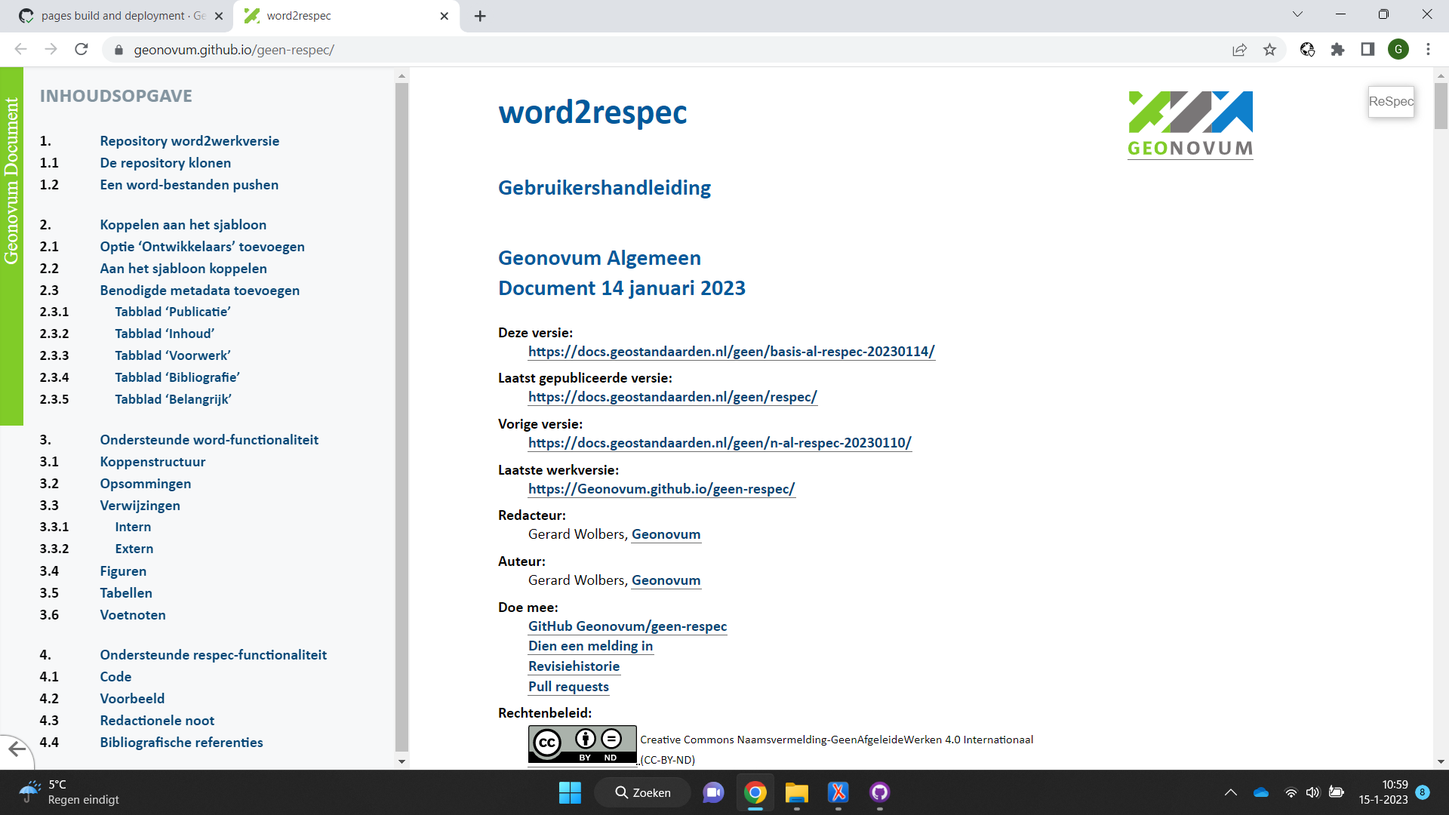
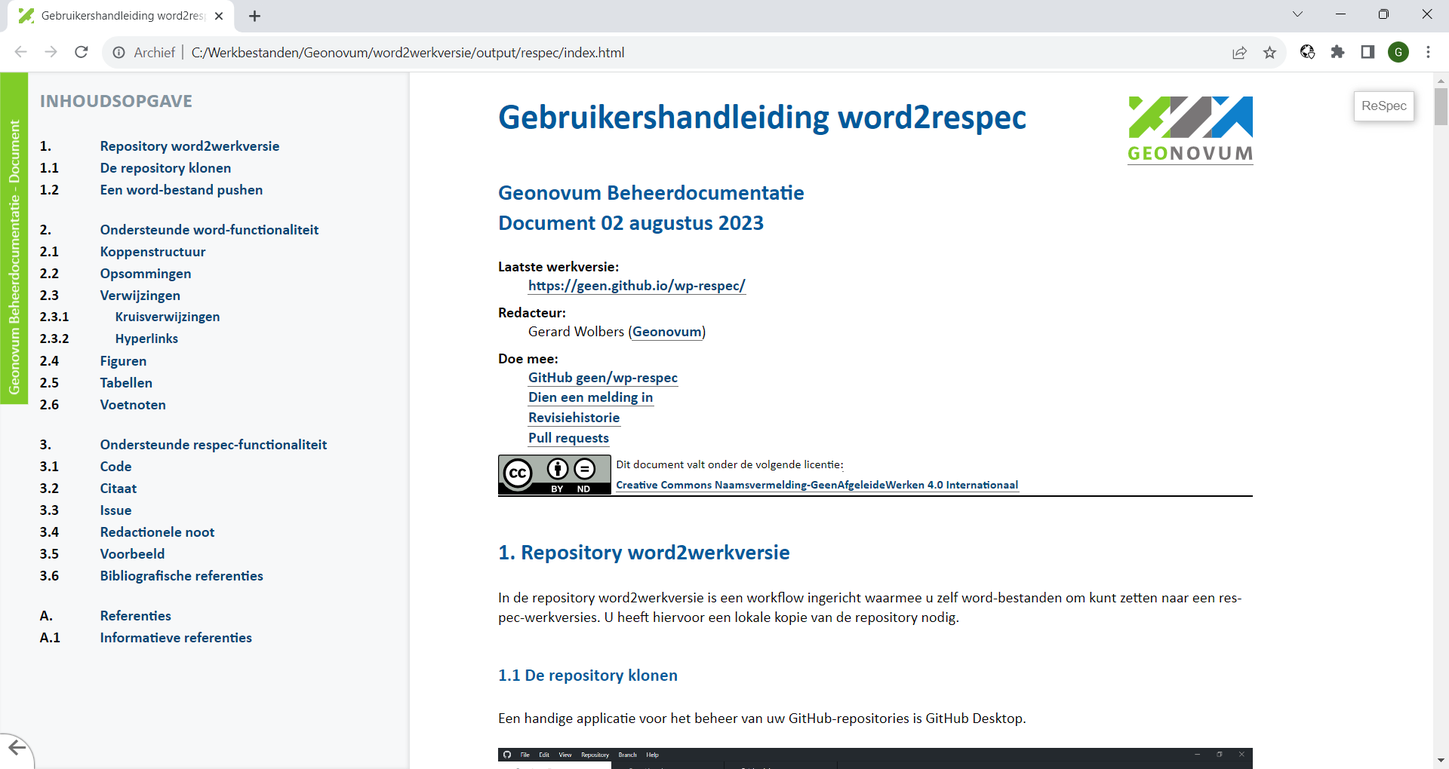
Gebruikershandleiding word2respec 1.1.0

Changed region(s): [[0.0, 0.0, 1.0, 1.0], [0.7812, 0.0304, 1.0, 0.2127], [0.3438, 0.1216, 0.7188, 0.1824]]

diff --git a/index.html b/index.html
@@ -1,1 +1,12 @@
-<?xml version="1.0" encoding="UTF-8"?><!DOCTYPE html><html lang="nl"><head><meta content="text/html; charset=UTF-8" http-equiv="content-type"></meta><meta name="viewport" content="width=device-width, initial-scale=1, shrink-to-fit=no"></meta><script class="remove notoc" src="https://cdn.jsdelivr.net/gh/digitalbazaar/respec-mermaid@1.0.1/dist/main.js"></script><script class="remove notoc" src="js/organisation-config.js"></script><script class="remove notoc" src="js/document-config.js"></script><script class="remove notoc">respecConfig = {...organisationConfig, ...documentConfig}</script><script class="remove notoc" src="https://gitdocumentatie.logius.nl/publicatie/respec/builds/respec-nlgov.js"></script><link rel="shortcut icon" type="image/x-icon" href="https://tools.geostandaarden.nl/publication/domain/geen/Geonovum.ico"></link><link rel="stylesheet" type="text/css" href="https://tools.geostandaarden.nl/publication/domain/geen/style.css"></link><title>Gebruikershandleiding word2respec</title></head><body><section id="abstract" class="introductory remove notoc"></section><section id="sotd" class="introductory remove notoc"></section><section id="6AE956A5" class="chapter"><h1 id="x1-6AE956A5">Repository word2werkversie</h1><p>In de repository word2werkversie is een workflow ingericht waarmee u zelf word-bestanden om kunt zetten naar een respec-werkversies. U heeft hiervoor een lokale kopie van de repository nodig.</p><section id="0209AAC7" class="body"><h2 id="x1-1-0209AAC7">De repository klonen</h2><p>Een handige applicatie voor het beheer van uw GitHub-repositories is GitHub Desktop.</p><figure><img src="media/image1.png" alt="media/image1.png" style="width: 100%;"></img><figcaption>Toevoegen van een repository</figcaption></figure><figure><img src="media/image2.png" alt="media/image2.png" style="width: 100%;"></img><figcaption>Zoek repository word2werkversie</figcaption></figure><p>Hiermee worden alle benodigde bestanden lokaal opgeslagen. De map word2werkversie/input bevat het sjabloon respec.dotm en het te converteren word-bestand. Er mag maar één docx-bestand in de map staan. Houd er rekening mee dat meer gebruikers de repository gebruiken. Uw word-bestand wordt dan verwijderd.</p></section><section id="6417117B" class="body"><h2 id="x1-2-6417117B">Een word-bestand pushen</h2><p>De repository word2werkversie bevat een action dat het gepushte word-bestand omzet naar respec-bestanden en deze plaatst in een GitHub-repository.</p><figure><img src="media/image3.png" alt="media/image3.png" style="width: 100%;"></img><figcaption>Commit het word-bestand</figcaption></figure><figure><img src="media/image4.png" alt="media/image4.png" style="width: 100%;"></img><figcaption>Push het word-bestand</figcaption></figure><p>Na de push start op de GitHub-repository een action dat de transformatie uitvoert.</p><figure><img src="media/image5.png" alt="media/image5.png" style="width: 100%;"></img><figcaption>Overzicht van uitgevoerde transformaties</figcaption></figure><figure><img src="media/image6.png" alt="media/image6.png" style="width: 100%;"></img><figcaption>De nieuwe repository</figcaption></figure><figure><img src="media/image7.png" alt="media/image7.png" style="width: 100%;"></img><figcaption>De pages-variant</figcaption></figure></section></section><section id="2E63D1F3" class="chapter"><h1 id="x3-2E63D1F3">Ondersteunde word-functionaliteit</h1><section id="2E987008" class="body"><h2 id="x3-1-2E987008"><span id="_Ref124671954"></span>Koppenstructuur</h2><p>Alle transformaties in de word2respec-workflow zijn gebaseerd op het gebruik van de stijlen ‘Kop 1’ t/m ‘Kop 9’. Overigens biedt dit veel extra mogelijkheden binnen word. Het venster ‘Stijlen’ opent (en sluit) u met toetscombinatie Alt+Ctrl-Shift+S.</p><figure><img src="media/image16.png" alt="media/image16.png" style="width: 100%;"></img><figcaption>Navigatie op basis van de koppenstructuur</figcaption></figure></section><section id="10DDDABF" class="body"><h2 id="x3-2-10DDDABF">Opsommingen</h2><p>Er zijn twee typen opsommingen, genummerd en met tekens. Hiervoor dient u de word-functie ‘Opsommingen’ te gebruiken. De opsommingen mogen gedefinieerd zijn in de stijl. De opsomming wordt omgezet naar opsommingen zoals ze voor het specifieke domein zijn gedefinieerd in het css-bestand. Dus het is mogelijk dat een opsomming met kapitale letters wordt omgezet naar Romeinse cijfers.</p></section><section id="15D453C9" class="body"><h2 id="x3-3-15D453C9">Verwijzingen</h2><p>Omdat de koppenstructuur, figuurnummers en tabelnummers worden gegenereerd door respec, is het niet verstandig om verwijzingen als tekst op te nemen. Dit kan op twee manieren:</p><ul><li><p>met kruisverwijzingen,</p></li><li><p>met interne verwijzingen.</p></li></ul><section id="44411ED5" class="body"><h3 id="x3-3-1-44411ED5"><span id="_Ref124680588"></span>Kruisverwijzingen</h3><p>Hiervoor gebruikt u de word-functie ‘Kruisverwijzing’ (Alt+Ctrl+Shift+K). Hiermee kunt u verwijzen naar alle mogelijke genummerde alinea’s.</p><figure><img src="media/image17.png" alt="media/image17.png" style="width: 59.99955555884772%;"></img><figcaption>Scherm ‘Kruisverwijzing’</figcaption></figure><figure><img src="media/image18.png" alt="media/image18.png" style="width: 100%;"></img><figcaption>Weergave van een kruiskoppeling in respec</figcaption></figure></section><section id="0A825EF3" class="body"><h3 id="x3-3-2-0A825EF3">Hyperlinks</h3><p>Ook hyperlinks worden doorgegeven in de respec-weergave. Met scherm ‘Hyperlink invoegen’ (Ctrl+K) voegt u een hyperlink toe, bijvoorbeeld naar hoofdstuk Repository word2werkversie.</p><figure><img src="media/image19.png" alt="media/image19.png" style="width: 100%;"></img><figcaption>Scherm voor het invoegen en bewerken van hyperlinks</figcaption></figure><figure><img src="media/image20.png" alt="media/image20.png" style="width: 100%;"></img><figcaption>Weergave van een hyperlink in respec</figcaption></figure></section></section><section id="27284A38" class="body"><h2 id="x3-4-27284A38">Figuren</h2><p class="space-after">Het veiligst is om figuren met tekstomloop ‘In tekstregel’ te gebruiken. De transformatie moet namelijk weten waar in de tekst een figuur ‘verankerd’ is. Dit is in word de standaard-mogelijkheid voor het plaatsen van figuren. De omvang van een figuur wordt berekend aan de hand van de breedte. De verhouding tussen de figuurbreedte en tekstbreedte wordt gebruikt in de uiteindelijke respec-weergave. Als de figuurbreedte meer dan 90% van de tekstbreedte is, wordt het uitgevuld naar de volledige tekstbreedte.</p><p>Het is mogelijk om met kruisverwijzingen (zie<a href="#_Ref124680588">3.3.1</a>) te verwijzen naar een figuur. De alinea onder de figuur wordt omgezet naar een figuurbijschrift als u het markeert met stijl ‘Figuurbijschrift’ of ‘Bijschrift’.</p></section><section id="4FB3FFF7" class="body"><h2 id="x3-5-4FB3FFF7">Tabellen</h2><p>Tabellen worden volledig door de workflow word2respec ondersteund:</p><ul><li><p>Tabelstijlen en tabeleigenschappen worden ondersteund.</p></li><li><p>De celopmaak wordt overgenomen.</p></li><li><p>Kolombreedte wordt overgenomen.</p></li><li><p class="space-after">Samengevoegde cellen verticaal en horizontaal worden ondersteund.</p></li></ul><p>Als u de alinea boven de tabel markeert met stijl ‘Tabeltitel’ of ‘Bijschrift’, dan wordt de alinea verwerkt als tabeltitel. In de tekst kunt u verwijzen naar de tabeltitel (zie<a href="#_Ref124680588">3.3.1</a>). Merk op dat respec in de weergave de tabeltitel niet weergeeft met een nummering. Onderstaand is een voorbeeldtekst.</p><table style="width: 100%;"><caption>Vergelijking met huidige rechtsfiguren en RO Standaarden</caption><colgroup><col id="col1" style="width: 35.00117730162467%;"></col><col id="col2" style="width: 64.99882269837532%;"></col></colgroup><thead valign="top"><tr><th align="left" style="border-top: 0.5pt solid #000000; border-left: 0.5pt solid #000000; border-bottom: 0.5pt solid #000000; border-right: 0.5pt solid #000000; background-color: #000000;"><p><b><span style="color: #FFFFFF;">Onderwerp</span></b></p></th><th align="left" style="border-top: 0.5pt solid #000000; border-left: 0.5pt solid #000000; border-bottom: 0.5pt solid #000000; border-right: 0.5pt solid #000000; background-color: #000000;"><p><b><span style="color: #FFFFFF;">Specificatie</span></b></p></th></tr></thead><tbody valign="top"><tr><td align="left" style="border-top: 0.5pt solid #000000; border-left: 0.5pt solid #000000; border-bottom: 0.5pt solid #000000; border-right: 0.5pt solid #000000; background-color: #FFFFFF;"><p><span style="color: #000000;">Vergelijkbaar met / voortzetting van huidige rechtsfiguur</span></p></td><td align="left" style="border-top: 0.5pt solid #000000; border-left: 0.5pt solid #000000; border-bottom: 0.5pt solid #000000; border-right: 0.5pt solid #000000; background-color: #FFFFFF;"><ul><li><p><span style="color: #000000;">bestemmingsplan, uitwerkingsplan, wijzigingsplan en inpassingsplan op basis van Wro</span></p></li><li><p><span style="color: #000000;">beheersverordening op basis van Wro</span></p></li><li><p><span style="color: #000000;">bestemmingsplan met verbrede reikwijdte op basis van Crisis- en herstelwet</span></p></li><li><p><span style="color: #000000;">welstandsnota op basis van Woningwet</span></p></li><li><p><span style="color: #000000;">erfgoedverordening op basis van Monumentenwet</span></p></li><li><p><span style="color: #000000;">algemene plaatselijke verordening op basis van Gemeentewet</span></p></li><li><p><span style="color: #000000;">…</span></p></li></ul></td></tr><tr><td align="left" style="border-top: 0.5pt solid #000000; border-left: 0.5pt solid #000000; border-bottom: 0.5pt solid #000000; border-right: 0.5pt solid #000000; background-color: #FFFFFF;"><p><span style="color: #000000;">Voortzetting van instrument in RO Standaarden</span></p></td><td align="left" style="border-top: 0.5pt solid #000000; border-left: 0.5pt solid #000000; border-bottom: 0.5pt solid #000000; border-right: 0.5pt solid #000000; background-color: #FFFFFF;"><p><span style="color: #000000;">Ja, bestemmingsplan en beheersverordening</span></p></td></tr><tr><td align="left" style="border-top: 0.5pt solid #000000; border-left: 0.5pt solid #000000; border-bottom: 0.5pt solid #000000; border-right: 0.5pt solid #000000; background-color: #FFFFFF;"><p><span style="color: #000000;">INSPIRE-thema</span></p></td><td align="left" style="border-top: 0.5pt solid #000000; border-left: 0.5pt solid #000000; border-bottom: 0.5pt solid #000000; border-right: 0.5pt solid #000000; background-color: #FFFFFF;"><p><span style="color: #000000;">Planned Land Use: SpatialPlan</span></p></td></tr></tbody></table></section><section id="476F745B" class="body"><h2 id="x3-6-476F745B">Voetnoten</h2><p class="space-after">De transformatie ondersteunt niet-complexe voetnoten. Onderstaand is een voorbeeldtekst.</p><p style="margin-left: 10.0mm;">Op grond van artikel 20.26 lid 2 Omgevingswet worden besluiten en andere rechtsfiguren op grond van die wet die bij ministeriële regeling zijn aangeduid als omgevingsdocument, ontsloten via DSO-LV. De bedoelde ministeriële regeling is de Regeling standaarden publicaties Omgevingswet<span class="noot">[1]<span class="noottekst"> De Regeling standaarden publicaties Omgevingswet is een ministeriële regeling bij de Bekendmakingswet<br/></span></span>. Deze regeling wijst besluiten en andere rechtsfiguren aan als omgevingsdocument en stelt het verplicht om die omgevingsdocumenten, en ontwerpen daarvan, elektronisch vorm te geven conform de Standaard voor Officiële Publicaties, het InformatieModel Omgevingswet en het voor het betreffende omgevingsdocument voorgeschreven toepassingsprofiel. Ook bevat deze regeling de verplichting om omgevingsdocumenten voor publicatie aan te bieden aan het Bronhouderkoppelvlak van de LVBB.</p><figure><img src="media/image21.png" alt="media/image21.png" style="width: 100%;"></img><figcaption>Respec-weergave van een voetnoot</figcaption></figure></section></section><section id="15D08FC1" class="chapter"><h1 id="x4-15D08FC1">Ondersteunde respec-functionaliteit</h1><p>In respec-weergave komen tekstsoorten voor waarvoor we een specifieke word-opmaak hebben afgesproken. U kunt deze toevoegen met de opties ‘Tekstsoorten’ en ‘Code’, links in de werkbalk.</p><section id="692AB1A3" class="body"><h2 id="x4-1-692AB1A3">Code</h2><p class="space-after">Een code-blok wordt in word aangegeven door het hele blok te markeren met menu-optie ‘Code’. Onderstaand is voorbeeldtekst. Let erop dat de inspringing met een tab-teken moet.</p><p><span style="background-color: cyan;">&lt;xsl:template match="w14:checkbox"&gt;</span></p><p><span style="background-color: cyan;">    &lt;xsl:element name="input"&gt;</span></p><p><span style="background-color: cyan;">        &lt;xsl:attribute name="class" select="string('task-list-item-checkbox')"/&gt;</span></p><p><span style="background-color: cyan;">        &lt;xsl:attribute name="id" select="generate-id(.)"/&gt;</span></p><p><span style="background-color: cyan;">        &lt;xsl:attribute name="style" select="string('margin-right: 2mm;')"/&gt;</span></p><p><span style="background-color: cyan;">        &lt;xsl:attribute name="type" select="string('checkbox')"/&gt;</span></p><p><span style="background-color: cyan;">        &lt;xsl:if test="w14:checked/@w14:val=1"&gt;</span></p><p><span style="background-color: cyan;">            &lt;xsl:attribute name="checked"/&gt;</span></p><p><span style="background-color: cyan;">        &lt;/xsl:if&gt;</span></p><p><span style="background-color: cyan;">    &lt;/xsl:element&gt;</span></p><p class="space-after"><span style="background-color: cyan;">&lt;/xsl:template&gt;</span></p><p>Code kan ook binnen een alinea staan. Dan is het voldoende om <span style="background-color: cyan;">dit gedeelte</span> te markeren met optie ‘Code’.</p><figure><img src="media/image22.png" alt="media/image22.png" style="width: 100%;"></img><figcaption>Voorbeeld van een code-blok in word</figcaption></figure></section><section id="47C7E86B" class="body"><h2 id="x4-2-47C7E86B">Citaat</h2><p>Een citaat wordt aangegeven door de alinea te selecteren en optie ‘Tekstsoorten’, ‘Citaat’ te kiezen.</p><blockquote><p>Dit is een voorbeeld van een citaat.</p></blockquote><figure><img src="media/image23.png" alt="media/image23.png" style="width: 100%;"></img><figcaption>Voorbeeld van de tekstsoorten ‘Citaat’, ‘Issue’ en ‘Noot’ in word</figcaption></figure></section><section id="0E8A6FC9" class="body"><h2 id="x4-3-0E8A6FC9">Issue</h2><p>In respec is het mogelijk om extra functionaliteit voor issues op te nemen. Zet in de eerste alinea het issue waarnaar gekoppeld moet worden en de titel. Selecteer de tekst en markeer het met ‘Teksoorten’, ‘Issue’.</p><p><b>Issue 22</b>: Invullen van <span style="background-color: cyan;">dct:license</span> en <span style="background-color: cyan;">dct:rights</span></p><p><span style="background-color: cyan;">dct:license</span> en <span style="background-color: cyan;">dct:rights</span> zijn te vinden in resource én in dataservice. Wanneer moet je nu welke eigenschap invullen?</p></section><section id="774275FA" class="body"><h2 id="x4-4-774275FA">Redactionele noot</h2><p>Een redactionele noot wordt aangegeven door de alinea te markeren met menu-optie ‘Tekstsoorten’, ‘Noot’. Onderstaand is voorbeeldtekst.</p><p class="space-after">Voor de beschrijving verwijzen we naar de documentatie in de bijlage.</p></section><section id="13F17295" class="body"><h2 id="x4-5-13F17295">Voorbeeld</h2><p>Een voorbeeld wordt aangegeven door de alinea te selecteren en optie ‘tekstsoorten’, ‘Voorbeeld’ te kiezen. Het is mogelijk om een code-blok binnen een voorbeeld aan te geven. Onderstaand is voorbeeldtekst.</p><aside class="example"><p>Op grond van artikel 20.26 lid 2 Omgevingswet worden besluiten en andere rechtsfiguren op grond van die wet die bij ministeriële regeling zijn aangeduid als omgevingsdocument, ontsloten via DSO-LV. De bedoelde ministeriële regeling is de Regeling standaarden publicaties Omgevingswet<sup><span class="noot">[2]<span class="noottekst"> De Regeling standaarden publicaties Omgevingswet is een ministeriële regeling bij de Bekendmakingswet<br/></span></span></sup>. Deze regeling wijst besluiten en andere rechtsfiguren aan als omgevingsdocument en stelt het verplicht om die omgevingsdocumenten, en ontwerpen daarvan, elektronisch vorm te geven conform de Standaard voor Officiële Publicaties, het InformatieModel Omgevingswet en het voor het betreffende omgevingsdocument voorgeschreven toepassingsprofiel. Ook bevat deze regeling de verplichting om omgevingsdocumenten voor publicatie aan te bieden aan het Bronhouderkoppelvlak van de LVBB.</p></aside><figure><span id="_Ref124671880"></span><span id="_Ref124746423"></span><img src="media/image24.png" alt="media/image24.png" style="width: 100%;"></img><figcaption>Voorbeeld van een voorbeeld in word</figcaption></figure></section><section id="4083BE20" class="body"><h2 id="x4-6-4083BE20">Bibliografische referenties</h2><p>Met menu-optie ‘Document’ tabblad ‘Bibliografie’ (zie<a href="#_Ref124693355">2.3.4</a>) in de respec-werkbalk kunt u publicaties opgeven waarnaar u met een bibligrafische referentie kunt verwijzen. Dit kan door de identifier van de publicatie tussen dubbele rechte haken te plaatsen: [[DONL]]. Respec voegt dan een bijlage toe met normatieve of informatieve referenties, afhankelijk van de opgegeven soort informatie (zie<a href="#_Ref124693607">2.3.2</a>).</p><figure><img src="media/image25.png" alt="media/image25.png" style="width: 100%;"></img><figcaption>Bijlage met normatieve referenties</figcaption></figure><figure><img src="media/image26.png" alt="media/image26.png" style="width: 100%;"></img><figcaption>Als een referentie ontbreekt, geeft respec een foutmelding</figcaption></figure></section></section></body></html>
+<?xml version="1.0" encoding="UTF-8"?><!DOCTYPE html><html lang="nl"><head><meta content="text/html; charset=UTF-8" http-equiv="content-type"></meta><meta name="viewport" content="width=device-width, initial-scale=1, shrink-to-fit=no"></meta><script class="remove notoc" src="https://cdn.jsdelivr.net/gh/digitalbazaar/respec-mermaid@1.0.1/dist/main.js"></script><script class="remove notoc" src="js/organisation-config.js"></script><script class="remove notoc" src="js/document-config.js"></script><script class="remove notoc">respecConfig = {...organisationConfig, ...documentConfig}</script><script class="remove notoc" src="https://gitdocumentatie.logius.nl/publicatie/respec/builds/respec-nlgov.js"></script><link rel="shortcut icon" type="image/x-icon" href="https://tools.geostandaarden.nl/publication/domain/geen/Geonovum.ico"></link><link rel="stylesheet" type="text/css" href="https://tools.geostandaarden.nl/publication/domain/geen/style.css"></link><title>Gebruikershandleiding word2respec</title></head><body><section id="abstract" class="introductory remove notoc"></section><section id="sotd" class="introductory remove notoc"></section><section id="6AE956A5" class="chapter"><h1 id="x1-6AE956A5">Repository word2werkversie</h1><p>In de repository word2werkversie is een workflow ingericht waarmee u zelf word-bestanden om kunt zetten naar een respec-werkversies. U heeft hiervoor een lokale kopie van de repository nodig.</p><section id="0209AAC7" class="body"><h2 id="x1-1-0209AAC7">De repository klonen</h2><p>Een handige applicatie voor het beheer van uw GitHub-repositories is GitHub Desktop.</p><figure><img src="media/image1.png" alt="media/image1.png" style="width: 100%;"></img><figcaption>Toevoegen van een repository</figcaption></figure><figure><img src="media/image2.png" alt="media/image2.png" style="width: 100%;"></img><figcaption>Zoek repository word2werkversie</figcaption></figure><p>Hiermee worden alle benodigde bestanden lokaal opgeslagen. De map word2werkversie/input bevat het sjabloon respec.dotm en het te converteren word-bestand. Er mag maar één docx-bestand in de map staan. Houd er rekening mee dat meer gebruikers de repository gebruiken. Uw word-bestand wordt dan verwijderd.</p></section><section id="6417117B" class="body"><h2 id="x1-2-6417117B">Een word-bestand pushen</h2><p>De repository word2werkversie bevat een action dat het gepushte word-bestand omzet naar respec-bestanden en deze plaatst in een GitHub-repository.</p><figure><img src="media/image3.png" alt="media/image3.png" style="width: 100%;"></img><figcaption>Commit het word-bestand</figcaption></figure><figure><img src="media/image4.png" alt="media/image4.png" style="width: 100%;"></img><figcaption>Push het word-bestand</figcaption></figure><p>Na de push start op de GitHub-repository een action dat de transformatie uitvoert.</p><figure><img src="media/image5.png" alt="media/image5.png" style="width: 100%;"></img><figcaption>Overzicht van uitgevoerde transformaties</figcaption></figure><figure><img src="media/image6.png" alt="media/image6.png" style="width: 100%;"></img><figcaption>De nieuwe repository</figcaption></figure><figure><img src="media/image7.png" alt="media/image7.png" style="width: 100%;"></img><figcaption>De pages-variant</figcaption></figure></section></section><section id="2E63D1F3" class="chapter"><h1 id="x3-2E63D1F3">Ondersteunde word-functionaliteit</h1><section id="2E987008" class="body"><h2 id="x3-1-2E987008"><span id="_Ref124671954"></span>Koppenstructuur</h2><p>Alle transformaties in de word2respec-workflow zijn gebaseerd op het gebruik van de stijlen ‘Kop 1’ t/m ‘Kop 9’. Overigens biedt dit veel extra mogelijkheden binnen word. Het venster ‘Stijlen’ opent (en sluit) u met toetscombinatie Alt+Ctrl-Shift+S.</p><figure><img src="media/image16.png" alt="media/image16.png" style="width: 100%;"></img><figcaption>Navigatie op basis van de koppenstructuur</figcaption></figure></section><section id="10DDDABF" class="body"><h2 id="x3-2-10DDDABF">Opsommingen</h2><p>Er zijn twee typen opsommingen, genummerd en met tekens. Hiervoor dient u de word-functie ‘Opsommingen’ te gebruiken. De opsommingen mogen gedefinieerd zijn in de stijl. De opsomming wordt omgezet naar opsommingen zoals ze voor het specifieke domein zijn gedefinieerd in het css-bestand. Dus het is mogelijk dat een opsomming met kapitale letters wordt omgezet naar Romeinse cijfers.</p></section><section id="15D453C9" class="body"><h2 id="x3-3-15D453C9">Verwijzingen</h2><p>Omdat de koppenstructuur, figuurnummers en tabelnummers worden gegenereerd door respec, is het niet verstandig om verwijzingen als tekst op te nemen. Dit kan op twee manieren:</p><ul><li><p>met kruisverwijzingen,</p></li><li><p>met interne verwijzingen.</p></li></ul><section id="44411ED5" class="body"><h3 id="x3-3-1-44411ED5"><span id="_Ref124680588"></span>Kruisverwijzingen</h3><p>Hiervoor gebruikt u de word-functie ‘Kruisverwijzing’ (Alt+Ctrl+Shift+K). Hiermee kunt u verwijzen naar alle mogelijke genummerde alinea’s.</p><figure><img src="media/image17.png" alt="media/image17.png" style="width: 59.99955555884772%;"></img><figcaption>Scherm ‘Kruisverwijzing’</figcaption></figure><figure><img src="media/image18.png" alt="media/image18.png" style="width: 100%;"></img><figcaption>Weergave van een kruiskoppeling in respec</figcaption></figure></section><section id="0A825EF3" class="body"><h3 id="x3-3-2-0A825EF3">Hyperlinks</h3><p>Ook hyperlinks worden doorgegeven in de respec-weergave. Met scherm ‘Hyperlink invoegen’ (Ctrl+K) voegt u een hyperlink toe, bijvoorbeeld naar hoofdstuk Repository word2werkversie.</p><figure><img src="media/image19.png" alt="media/image19.png" style="width: 100%;"></img><figcaption>Scherm voor het invoegen en bewerken van hyperlinks</figcaption></figure><figure><img src="media/image20.png" alt="media/image20.png" style="width: 100%;"></img><figcaption>Weergave van een hyperlink in respec</figcaption></figure></section></section><section id="27284A38" class="body"><h2 id="x3-4-27284A38">Figuren</h2><p class="space-after">Het veiligst is om figuren met tekstomloop ‘In tekstregel’ te gebruiken. De transformatie moet namelijk weten waar in de tekst een figuur ‘verankerd’ is. Dit is in word de standaard-mogelijkheid voor het plaatsen van figuren. De omvang van een figuur wordt berekend aan de hand van de breedte. De verhouding tussen de figuurbreedte en tekstbreedte wordt gebruikt in de uiteindelijke respec-weergave. Als de figuurbreedte meer dan 90% van de tekstbreedte is, wordt het uitgevuld naar de volledige tekstbreedte.</p><p>Het is mogelijk om met kruisverwijzingen (zie <a href="#_Ref124680588">3.3.1</a>) te verwijzen naar een figuur. De alinea onder de figuur wordt omgezet naar een figuurbijschrift als u het markeert met stijl ‘Figuurbijschrift’ of ‘Bijschrift’.</p></section><section id="4FB3FFF7" class="body"><h2 id="x3-5-4FB3FFF7">Tabellen</h2><p>Tabellen worden volledig door de workflow word2respec ondersteund:</p><ul><li><p>Tabelstijlen en tabeleigenschappen worden ondersteund.</p></li><li><p>De celopmaak wordt overgenomen.</p></li><li><p>Kolombreedte wordt overgenomen.</p></li><li><p class="space-after">Samengevoegde cellen verticaal en horizontaal worden ondersteund.</p></li></ul><p>Als u de alinea boven de tabel markeert met stijl ‘Tabeltitel’ of ‘Bijschrift’, dan wordt de alinea verwerkt als tabeltitel. In de tekst kunt u verwijzen naar de tabeltitel (zie <a href="#_Ref124680588">3.3.1</a>). Merk op dat respec in de weergave de tabeltitel niet weergeeft met een nummering. Onderstaand is een voorbeeldtekst.</p><table style="width: 100%;"><caption>Vergelijking met huidige rechtsfiguren en RO Standaarden</caption><colgroup><col id="col1" style="width: 35.00117730162467%;"></col><col id="col2" style="width: 64.99882269837532%;"></col></colgroup><thead valign="top"><tr><th align="left" style="border-top: 0.5pt solid #000000; border-left: 0.5pt solid #000000; border-bottom: 0.5pt solid #000000; border-right: 0.5pt solid #000000; background-color: #000000;"><p><b><span style="color: #FFFFFF;">Onderwerp</span></b></p></th><th align="left" style="border-top: 0.5pt solid #000000; border-left: 0.5pt solid #000000; border-bottom: 0.5pt solid #000000; border-right: 0.5pt solid #000000; background-color: #000000;"><p><b><span style="color: #FFFFFF;">Specificatie</span></b></p></th></tr></thead><tbody valign="top"><tr><td align="left" style="border-top: 0.5pt solid #000000; border-left: 0.5pt solid #000000; border-bottom: 0.5pt solid #000000; border-right: 0.5pt solid #000000; background-color: #FFFFFF;"><p><span style="color: #000000;">Vergelijkbaar met / voortzetting van huidige rechtsfiguur</span></p></td><td align="left" style="border-top: 0.5pt solid #000000; border-left: 0.5pt solid #000000; border-bottom: 0.5pt solid #000000; border-right: 0.5pt solid #000000; background-color: #FFFFFF;"><ul><li><p><span style="color: #000000;">bestemmingsplan, uitwerkingsplan, wijzigingsplan en inpassingsplan op basis van Wro</span></p></li><li><p><span style="color: #000000;">beheersverordening op basis van Wro</span></p></li><li><p><span style="color: #000000;">bestemmingsplan met verbrede reikwijdte op basis van Crisis- en herstelwet</span></p></li><li><p><span style="color: #000000;">welstandsnota op basis van Woningwet</span></p></li><li><p><span style="color: #000000;">erfgoedverordening op basis van Monumentenwet</span></p></li><li><p><span style="color: #000000;">algemene plaatselijke verordening op basis van Gemeentewet</span></p></li><li><p><span style="color: #000000;">…</span></p></li></ul></td></tr><tr><td align="left" style="border-top: 0.5pt solid #000000; border-left: 0.5pt solid #000000; border-bottom: 0.5pt solid #000000; border-right: 0.5pt solid #000000; background-color: #FFFFFF;"><p><span style="color: #000000;">Voortzetting van instrument in RO Standaarden</span></p></td><td align="left" style="border-top: 0.5pt solid #000000; border-left: 0.5pt solid #000000; border-bottom: 0.5pt solid #000000; border-right: 0.5pt solid #000000; background-color: #FFFFFF;"><p><span style="color: #000000;">Ja, bestemmingsplan en beheersverordening</span></p></td></tr><tr><td align="left" style="border-top: 0.5pt solid #000000; border-left: 0.5pt solid #000000; border-bottom: 0.5pt solid #000000; border-right: 0.5pt solid #000000; background-color: #FFFFFF;"><p><span style="color: #000000;">INSPIRE-thema</span></p></td><td align="left" style="border-top: 0.5pt solid #000000; border-left: 0.5pt solid #000000; border-bottom: 0.5pt solid #000000; border-right: 0.5pt solid #000000; background-color: #FFFFFF;"><p><span style="color: #000000;">Planned Land Use: SpatialPlan</span></p></td></tr></tbody></table></section><section id="476F745B" class="body"><h2 id="x3-6-476F745B">Voetnoten</h2><p class="space-after">De transformatie ondersteunt niet-complexe voetnoten. Onderstaand is een voorbeeldtekst.</p><p style="margin-left: 10.0mm;">Op grond van artikel 20.26 lid 2 Omgevingswet worden besluiten en andere rechtsfiguren op grond van die wet die bij ministeriële regeling zijn aangeduid als omgevingsdocument, ontsloten via DSO-LV. De bedoelde ministeriële regeling is de Regeling standaarden publicaties Omgevingswet<span class="noot">[1]<span class="noottekst"> De Regeling standaarden publicaties Omgevingswet is een ministeriële regeling bij de Bekendmakingswet<br/></span></span>. Deze regeling wijst besluiten en andere rechtsfiguren aan als omgevingsdocument en stelt het verplicht om die omgevingsdocumenten, en ontwerpen daarvan, elektronisch vorm te geven conform de Standaard voor Officiële Publicaties, het InformatieModel Omgevingswet en het voor het betreffende omgevingsdocument voorgeschreven toepassingsprofiel. Ook bevat deze regeling de verplichting om omgevingsdocumenten voor publicatie aan te bieden aan het Bronhouderkoppelvlak van de LVBB.</p><figure><img src="media/image21.png" alt="media/image21.png" style="width: 100%;"></img><figcaption>Respec-weergave van een voetnoot</figcaption></figure></section></section><section id="15D08FC1" class="chapter"><h1 id="x4-15D08FC1">Ondersteunde respec-functionaliteit</h1><p>In respec-weergave komen tekstsoorten voor waarvoor we een specifieke word-opmaak hebben afgesproken. U kunt deze toevoegen met de opties ‘Tekstsoorten’ en ‘Code’, links in de werkbalk.</p><section id="692AB1A3" class="body"><h2 id="x4-1-692AB1A3">Code</h2><p class="space-after">Een code-blok wordt in word aangegeven door het hele blok te markeren met menu-optie ‘Code’. Onderstaand is voorbeeldtekst. Let erop dat de inspringing met een tab-teken moet.</p><pre class="text">&lt;xsl:template match="w14:checkbox"&gt;
+    &lt;xsl:element name="input"&gt;
+        &lt;xsl:attribute name="class" select="string('task-list-item-checkbox')"/&gt;
+        &lt;xsl:attribute name="id" select="generate-id(.)"/&gt;
+        &lt;xsl:attribute name="style" select="string('margin-right: 2mm;')"/&gt;
+        &lt;xsl:attribute name="type" select="string('checkbox')"/&gt;
+        &lt;xsl:if test="w14:checked/@w14:val=1"&gt;
+            &lt;xsl:attribute name="checked"/&gt;
+        &lt;/xsl:if&gt;
+    &lt;/xsl:element&gt;
+&lt;/xsl:template&gt;
+</pre><p>Code kan ook binnen een alinea staan. Dan is het voldoende om <code>dit gedeelte</code> te markeren met optie ‘Code’.</p><figure><img src="media/image22.png" alt="media/image22.png" style="width: 100%;"></img><figcaption>Voorbeeld van een code-blok in word</figcaption></figure></section><section id="47C7E86B" class="body"><h2 id="x4-2-47C7E86B">Citaat</h2><p>Een citaat wordt aangegeven door de alinea te selecteren en optie ‘Tekstsoorten’, ‘Citaat’ te kiezen.</p><blockquote><p>Dit is een voorbeeld van een citaat.</p></blockquote><figure><img src="media/image23.png" alt="media/image23.png" style="width: 100%;"></img><figcaption>Weergave van tekstsoorten ‘Citaat’, ‘Issue’ en ‘Noot’ in word</figcaption></figure></section><section id="0E8A6FC9" class="body"><h2 id="x4-3-0E8A6FC9">Issue</h2><p>In respec is het mogelijk om extra functionaliteit voor issues op te nemen. Zet in de eerste alinea het issue waarnaar gekoppeld moet worden en de titel. Selecteer de tekst en markeer het met ‘Teksoorten’, ‘Issue’.</p><aside class="issue"><p><b>Issue 22</b>: Invullen van <code>dct:license</code> en <code>dct:rights</code></p><p><code>dct:license</code> en <code>dct:rights</code> zijn te vinden in resource én in dataservice. Wanneer moet je nu welke eigenschap invullen?</p></aside></section><section id="774275FA" class="body"><h2 id="x4-4-774275FA">Redactionele noot</h2><p>Een redactionele noot wordt aangegeven door de alinea te markeren met menu-optie ‘Tekstsoorten’, ‘Noot’. Onderstaand is voorbeeldtekst.</p><aside class="note"><p>Voor de beschrijving verwijzen we naar de documentatie in de bijlage.</p></aside></section><section id="13F17295" class="body"><h2 id="x4-5-13F17295">Voorbeeld</h2><p>Een voorbeeld wordt aangegeven door de alinea te selecteren en optie ‘tekstsoorten’, ‘Voorbeeld’ te kiezen. Het is mogelijk om een code-blok binnen een voorbeeld aan te geven. Onderstaand is voorbeeldtekst.</p><aside class="example"><p>Op grond van artikel 20.26 lid 2 Omgevingswet worden besluiten en andere rechtsfiguren op grond van die wet die bij ministeriële regeling zijn aangeduid als omgevingsdocument, ontsloten via DSO-LV. De bedoelde ministeriële regeling is de Regeling standaarden publicaties Omgevingswet<sup><span class="noot">[2]<span class="noottekst"> De Regeling standaarden publicaties Omgevingswet is een ministeriële regeling bij de Bekendmakingswet<br/></span></span></sup>. Deze regeling wijst besluiten en andere rechtsfiguren aan als omgevingsdocument en stelt het verplicht om die omgevingsdocumenten, en ontwerpen daarvan, elektronisch vorm te geven conform de Standaard voor Officiële Publicaties, het InformatieModel Omgevingswet en het voor het betreffende omgevingsdocument voorgeschreven toepassingsprofiel. Ook bevat deze regeling de verplichting om omgevingsdocumenten voor publicatie aan te bieden aan het Bronhouderkoppelvlak van de LVBB.</p></aside><figure><span id="_Ref124671880"></span><span id="_Ref124746423"></span><img src="media/image24.png" alt="media/image24.png" style="width: 100%;"></img><figcaption>Voorbeeld van een voorbeeld in word</figcaption></figure></section><section id="4083BE20" class="body"><h2 id="x4-6-4083BE20">Bibliografische referenties</h2><p>Met menu-optie ‘Document’ tabblad ‘Bibliografie’ (zie <a href="#_Ref124693355">2.3.4</a>) in de respec-werkbalk kunt u publicaties opgeven waarnaar u met een bibligrafische referentie kunt verwijzen. Dit kan door de identifier van de publicatie tussen dubbele rechte haken te plaatsen: [[DONL]]. Respec voegt dan een bijlage toe met normatieve of informatieve referenties, afhankelijk van de opgegeven soort informatie (zie <a href="#_Ref124693607">2.3.2</a>).</p><figure><img src="media/image25.png" alt="media/image25.png" style="width: 100%;"></img><figcaption>Bijlage met normatieve referenties</figcaption></figure><figure><img src="media/image26.png" alt="media/image26.png" style="width: 100%;"></img><figcaption>Als een referentie ontbreekt, geeft respec een foutmelding</figcaption></figure></section></section></body></html>
